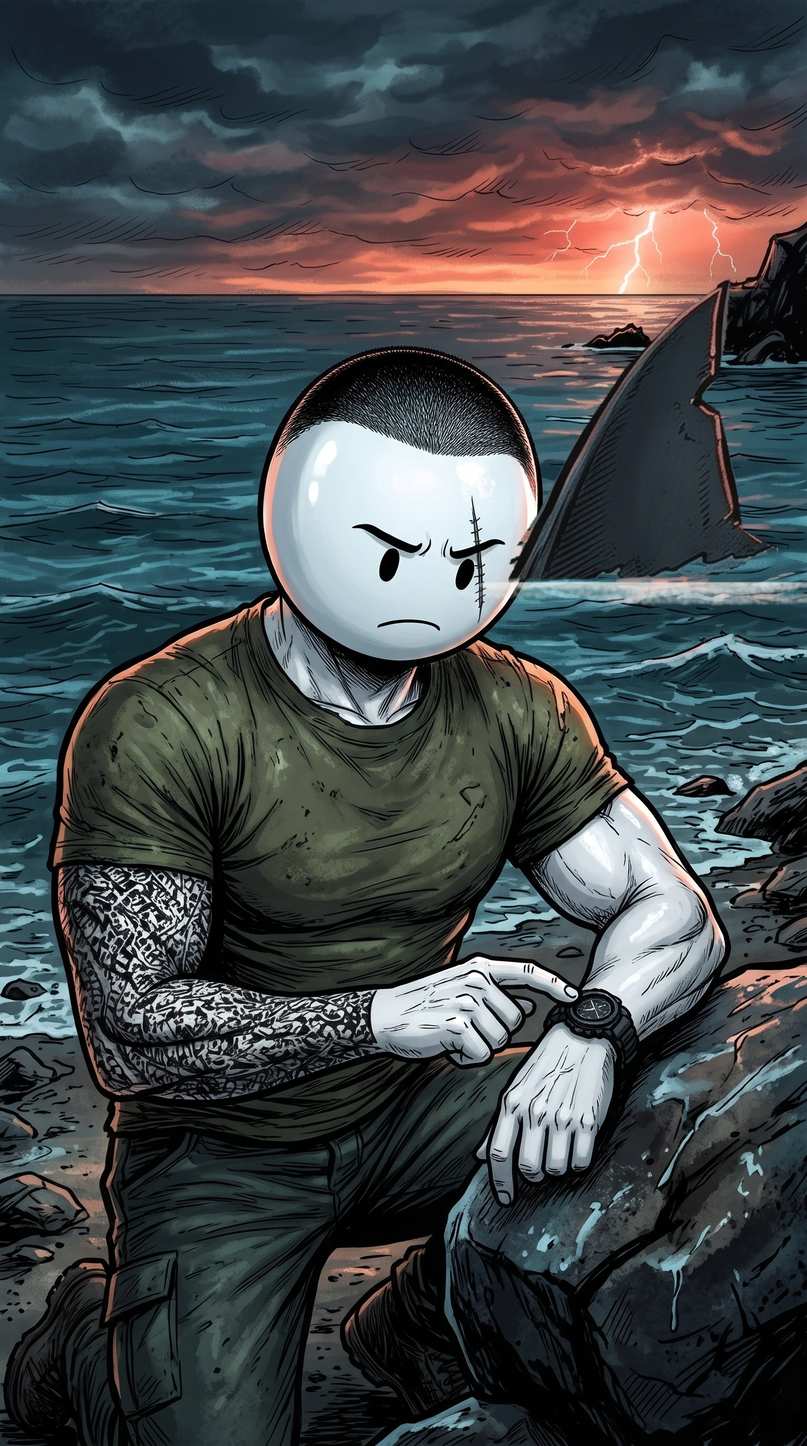
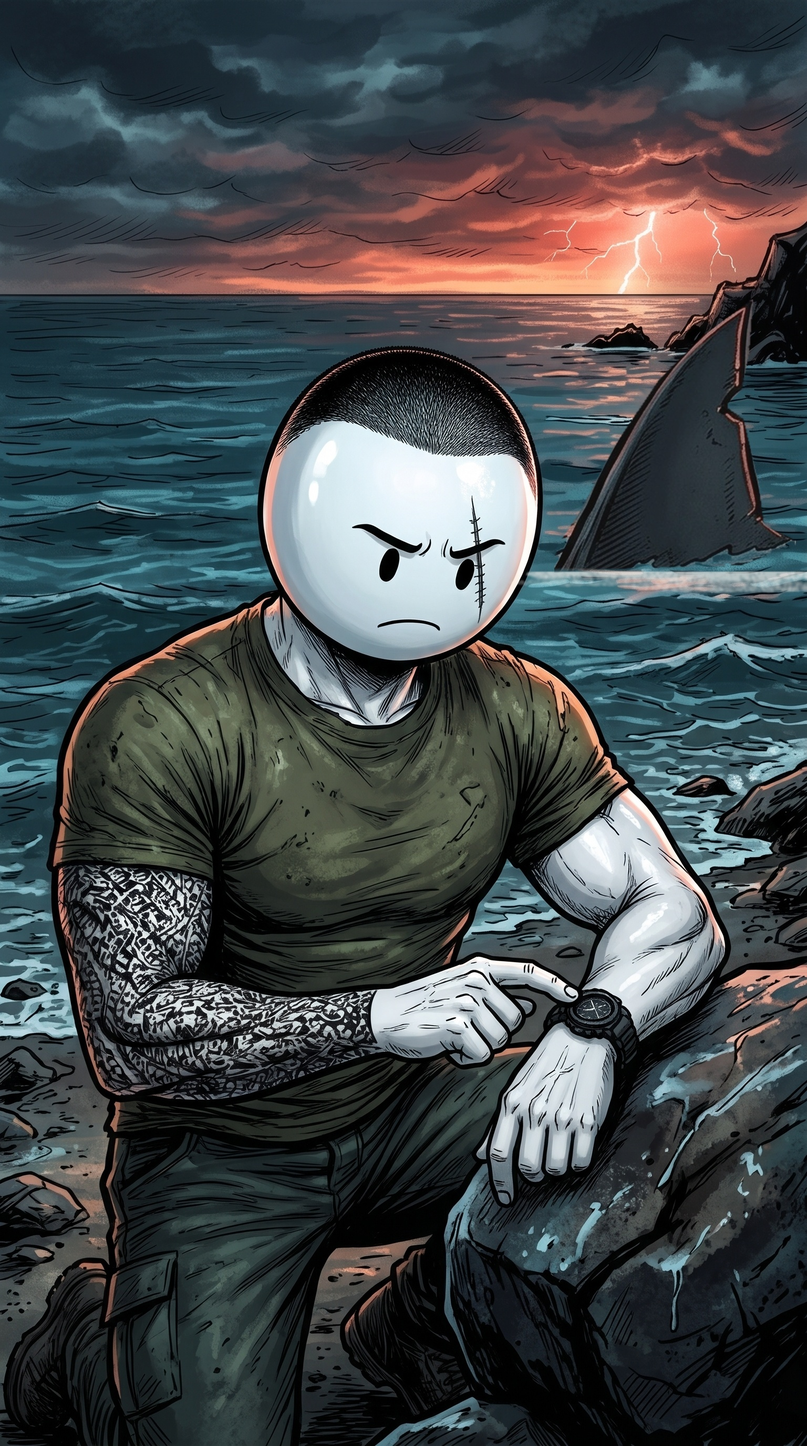
ADA 9: 09a yüzgeç Kemal'in yüzünden uzaklaştırıldı
Claude-Session: https://claude.ai/code/session_014JxJGGMAcsX945kBrKhihb

Changed region(s): [[0.625, 0.1875, 1.0, 0.4375]]

diff --git a/hikaye-video/projeler/ada9/yuzgec-08.py b/hikaye-video/projeler/ada9/yuzgec-08.py
@@ -7,7 +7,7 @@ POLY = [(852, 944), (848, 1000), (840, 1040), (822, 1058), (842, 1072), (858, 11
         (700, 1232), (640, 1236), (642, 1210), (668, 1170), (705, 1100), (752, 1030), (800, 982)]
 CFG = {  # boy: yüzgeç yüksekliği, taban: suya girdiği nokta, sil: eski küçük yüzgecin kutusu, rim: kırmızı kenar şiddeti, ton: sahne rengi
     '07': dict(boy=290, taban=(790, 640), sil=(838, 402, 905, 458), rim=0.55, ton=(60, 75, 85), kopuk=0.55),
-    '09a': dict(boy=580, taban=(1225, 1110), sil=(1205, 730, 1290, 808), rim=0.5, ton=(75, 80, 85), kopuk=0.7),
+    '09a': dict(boy=520, taban=(1285, 1090), sil=(1205, 730, 1290, 808), rim=0.5, ton=(75, 80, 85), kopuk=0.7),
     '09b': dict(boy=520, taban=(795, 1290), sil=(690, 1045, 960, 1300), rim=0.0, ton=(70, 90, 20), kopuk=0.95),
     '15': dict(boy=600, taban=(640, 1840), sil=None, rim=0.7, ton=(70, 80, 40), kopuk=0.0)}
 
